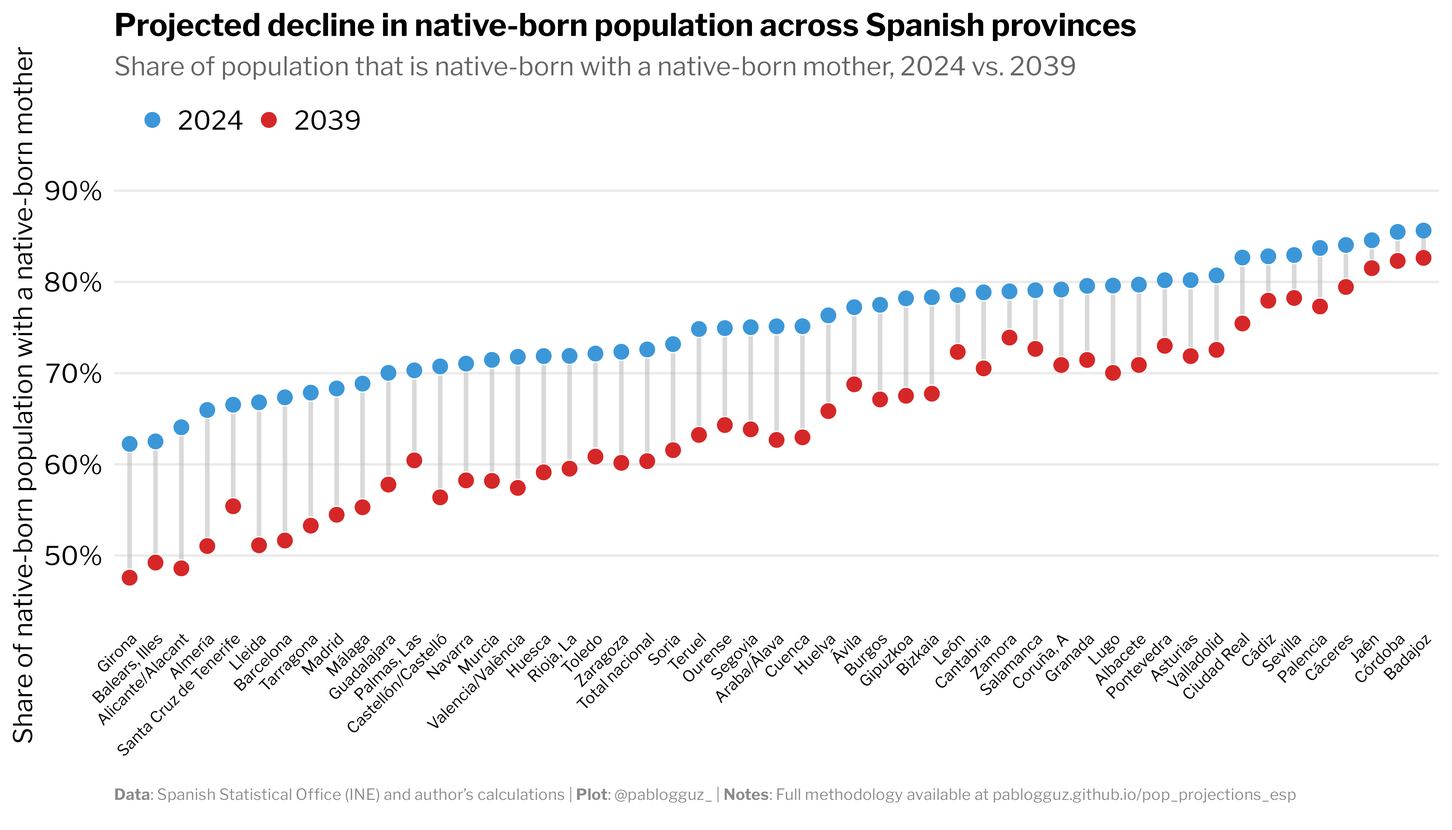
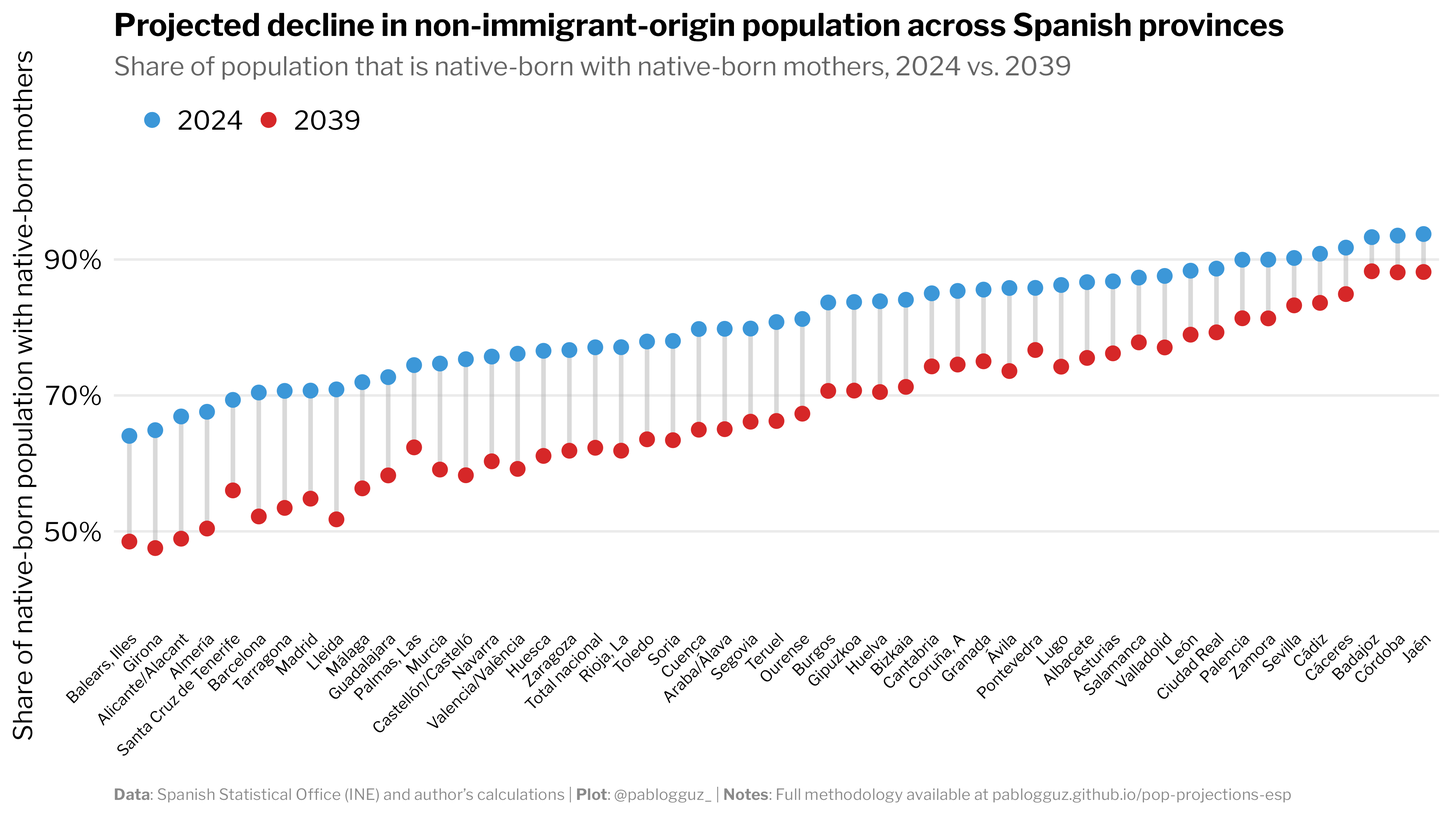
new blog post

diff --git a/content/blog/pop-projections-esp.md b/content/blog/pop-projections-esp.md
@@ -1,0 +1,268 @@
++++
+title = "A demographic projection of Spain's native-born population: quantifying the stock of second-generation immigrants"
+date = 2025-05-04
+draft = false
+
+[taxonomies]
+tags = ["demography", "spain", "immigration"]
+
+[extra]
+lang = "en"
+toc = true
+comment = true
+copy = true
+math = true
+mermaid = false
+outdate_alert = true
+outdate_alert_days = 120
+display_tags = true
+truncate_summary = false
+featured = false
+cover_image = "https://pablogguz.github.io/img/bull.png"
+reading_time = 3
++++
+
+<img src="/img/bull.png" width="500"/>
+<br>
+
+# Introduction
+
+Spain's demographic structure is changing — and fast. In 1998, the stock of foreign-born residents was just 2.9% of the total population. By 2024, this figure had skyrocketed to 18.2%, with nearly one in five residents born outside Spain. Among the prime working-age population (ages 25-54), the share of foreign-born individuals has reached 26.8% nationally, and in provinces hosting major urban and economic centers (like Madrid or Barcelona) it is as high as ~35%. That is more than one in three people! [^1]
+
+This demographic shift extends beyond the first generation of migrants. The children of immigrants — often referred to as "second-generation immigrants" or, more precisely, native-born individuals with foreign-born parents — represent an increasingly important demographic group whose size and characteristics will shape Spain's social and economic landscape in the coming decades.
+
+Unfortunately, there is no readily available data on the number of second-generation immigrants over time in Spain. To bridge this gap, **in this post I present a methodological framework for projecting the share of native-born individuals with foreign-born mothers across Spanish provinces from 2024 to 2039**. To the best of my knowledge, this is the first attempt to estimate and project the size of this population group into the future. The methodology integrates multiple data sources from Spain's National Statistical Office (_Instituto Nacional de Estadística_, hereafter INE) and employs simple, fully-reproducible modeling techniques to produce province-level projections of this increasingly important population segment.
+
+# Data
+
+The projection methodology I propose draws on multiple datasets. All data is publicly available and can be accessed through INE's website:
+
+- [**Population projections (2024-2039)**](https://www.ine.es/dyngs/INEbase/es/operacion.htm?c=Estadistica_C&cid=1254736176953&menu=ultiDatos&idp=1254735572981): This is the backbone of the analysis. The projections (elaborated by INE) provide estimates of Spain's future population broken down by basic demographic characteristics following cohort component methods, which are the international standard for population projections. The projections also include mortality indicators, which will be used to estimate survival probabilities for each age group. All the projections used in the analysis correspond to the "central" (baseline) scenario. One way to think about this baseline scenario is as a "business as usual" projection, which assumes that current demographic trends (birth rates, death rates, and migration patterns) will continue into the future along their present trajectory.
+- [**Birth statistics**](https://www.ine.es/dyngs/INEbase/es/operacion.htm?c=Estadistica_C&cid=1254736177007&menu=ultiDatos&idp=1254735573002): The births microdata allows me to establish the baseline proportion of births to foreign-born mothers in each province and provides historical data for modeling the relationship between foreign-born female population and births to foreign-born mothers.
+- [**Survey on Essential Characteristics of Population and Housing (ECEPOV-2021)**](https://www.ine.es/dyngs/INEbase/en/operacion.htm?c=Estadistica_C&cid=1254736177092&menu=ultiDatos&idp=1254735572981): This household survey, conducted by INE in 2021, complements the 2021 census by providing information not available in administrative registers — in particular, the ECEPOV-2021 will allow me to calculate the existing share of native-born individuals with foreign-born mothers by age and province in 2021. This will provide the baseline structure for the projections.
+
+# Methodology
+
+## The fundamentals 
+
+Let's start with the basics. The classic equation that demographers use to track population changes (in its discrete form) is quite simple:
+
+$$N_{t+1} = N_t + B_t - D_t + I_t - E_t$$
+
+where $N_t$ is the population at time $t$, $B_t$ is births, $D_t$ is deaths, $I_t$ is immigration, and $E_t$ is emigration. This equation captures the fundamental flows that shape population: we start with last year's population, add new births, subtract deaths, and account for people moving in and out.
+
+Let me now write down a slightly more refined version of the equation above that accounts for age structure:
+
+$$N(a+1,t+1) = N(a,t) \times s(a,t) + M(a,t)$$
+
+Here, $N(a,t)$ represents the population of age $a$ at time $t$, while $s(a,t)$ is the survival probability (the chance someone of age $a$ survives to age $a+1$), and $M(a,t)$ captures net migration (immigration minus emigration) of that particular age group. For example, to find next year's 30-year-olds, take this year's 29-year-olds, calculate how many will survive to age 30, and add any net migration of 30-year-olds. 
+
+Now, we're specifically interested in the stock of second-generation immigrants. **For simplicity, I will define this group as native-born individuals with foreign-born mothers (hereafter NBF)**. We can then decompose the total population into three mutually exclusive groups:
+
+$$N(a,t) = NBF(a,t) + NBNM(a,t) + FB(a,t)$$
+
+where:
+- $NBF(a,t)$ is the native-born population with foreign-born mothers
+- $NBNM(a,t)$ is the native-born population with native-born mothers
+- $FB(a,t)$ is the foreign-born population
+
+Each component follows the same demographic principles but differs in how new members enter the population:
+
+| Population group | Change equation | Newborns |
+|-----------------|-----------------|----------|
+| Native-born with foreign-born mothers (NBF) | $NBF(a+1,t+1) = NBF(a,t) \times s(a,t) + M_{NBF}(a,t)$ | $NBF(0,t+1) = B(t) \times s_{infant}(p,t) \times \Phi_{FB}(t) + M_{NBF}(0,t)$ |
+| Native-born with native-born mothers (NBNM) | $NBNM(a+1,t+1) = NBNM(a,t) \times s(a,t) + M_{NBNM}(a,t)$ | $NBNM(0,t+1) = B(t) \times s_{infant}(p,t) \times (1 - \Phi_{FB}(t)) + M_{NBNM}(0,t)$ |
+| Foreign-born population (FB) | $FB(a+1,t+1) = FB(a,t) \times s(a,t) + M_{FB}(a,t)$ | $FB(0,t+1) = M_{FB}(0,t)$  |
+
+In the table above, $\Phi_{FB}(t)$ is the share of births to foreign-born mothers in year $t$, and $M_{NBF}(a,t)$, $M_{NBNM}(a,t)$, and $M_{FB}(a,t)$ are the migration flows for each population group. 
+
+Notice that $s_{infant}(p,t) \neq s(p,0,t)$. The intuition is the following. Demographic projections typically reference population stocks as of January 1st of each year, which means that the age 0 population at time $t+1$ consists of children born during year $t$ who survived to January 1st. Since births occur throughout year $t$, newborns are exposed to mortality risk for only part of the year on average. To account for this partial-year exposure, I use an adjusted infant survival probability that differs from standard age-specific survival rates:
+
+$$s_{infant}(p,t) = 1 - 0.5 \times m(0,p,t)$$
+
+where $m(0,p,t)$ is the mortality rate for age 0 in province $p$ during year $t$. The 0.5 multiplier reflects that, on average, newborns are exposed to mortality risk for approximately half a year before reaching the January 1st reference date.
+
+<!-- In practical terms, I implement this as follows:
+-  I project the NBF population forward using only births and deaths, $NBF_{projected}(a,t)$
+-  I compare the total population projection with INE's official projections (which includes migration): $M(t) = N_{official}(t) - N_{projected}(t)$
+
+The NBF projection is therefore given by:
+
+$$NBF_{adjusted}(a,t) = NBF_{projected}(a,t) \times \frac{N_{official}(a,t)}{N_{projected}(a,t)}$$ -->
+
+## Modeling births to foreign-born mothers
+
+To project future demographic patterns accurately, we need some assumption(s) on how the proportion of births to foreign-born mothers will evolve over time. In particular, this key parameter isn't static but fluctuates in response to changes in the foreign-born female population. One simple way to think about it is using a **linear regression model that links the share of foreign-born women in a province to the percentage of births to foreign-born mothers in that same province**:
+
+$$\Phi_{FB}(p,t) = \alpha_p + \beta \times \frac{\text{Foreign-born females} (p,t)}{\text{Total females} (p,t)} + \varepsilon_{p,t}$$
+
+where:
+- $\Phi_{FB}(p,t)$ is the share of births to foreign-born mothers in province $p$ at time $t$
+- $\alpha_p$ represents province fixed effects
+- $\beta$ is a global elasticity coefficient
+- $\frac{\text{Foreign-born females} (p,t)}{\text{Total females} (p,t)}$ is the proportion of women in province $p$ at time $t$ who were born abroad. 
+
+I estimate the equation above using data from 2009 to 2023, and then apply the estimated coefficients to projected foreign-born population shares through 2039. In the out-of-sample exercise, the number of foreign-born females is calibrated to match the ratio of overall foreign-born population to the total population in each province and year. That is:
+
+$$\frac{\text{Foreign-born females} (p,t)}{\text{Total females} (p,t)} = \frac{\text{Foreign-born population} (p,t)}{\text{Total population} (p,t)} = \gamma(p,t)$$
+
+Ideally, one would use the foreign-born share among the female population of childbearing age (15-49) instead of the overall share of foreign-born women, but unfortunately INE's projections do not provide this breakdown (which makes the out-of-sample prediction exercise unfeasible unless otherwise estimated). For simplicity, I use the overall share as a proxy.
+
+## A basic births-and-deaths projection model
+
+Let's abstract from migration for a second. Under a pure births-and-deaths framework, or each province $p$ and year $t$, the population of age $a$ in year $t+1$ is given by:
+
+$$\hat{N}(p,a,t+1) = \underbrace{\hat{N}(p,a-1,t) \times s(p,a-1,t)}_{\text{Aging and survival of last year's population}}$$
+
+Similarly, for the native-born population with foreign-born mothers and native-born population with native-born mothers:
+
+$$\widehat{NBF}(p,a,t+1) = \underbrace{\widehat{NBF}(p,a-1,t) \times s(p,a-1,t)}_{\text{Aging and survival of last year's NBF population}}$$
+
+$$\widehat{NBNM}(p,a,t+1) = \underbrace{\widehat{NBNM}(p,a-1,t) \times s(p,a-1,t)}_{\text{Aging and survival of last year's NBNM population}}$$
+
+And for newborns:
+
+$$\widehat{NBF}(p,0,t+1) = B(p,t) \times s_{infant}(p,t) \times \widehat{\Phi_{FB}}(p,t)$$
+
+$$\widehat{NBNM}(p,0,t+1) = B(p,t) \times s_{infant}(p,t)  \times (1-\widehat{\Phi_{FB}}(p,t))$$
+
+where $\widehat{\Phi_{FB}}(p,t)$ is estimated using the predicted values from the regression model:
+
+$$\widehat{\Phi_{FB}}(p,t)= \widehat{\alpha_p} + \widehat{\beta} \times \gamma(p,t)$$
+
+## Estimating the initial stock of NBF and NBNM individuals
+
+At the start of the projection, we need the counts of NBF and NBNM individuals by age and province — a level of detail INE does not publish. To establish a coherent baseline, I draw on ECEPOV 2021-microdata and proceed as follows.
+
+First, I classify every repsondent in the ECEPOV-2021 sample into one of three groups: (1) native-born individuals with a foreign-born mother (NBF), (2) native-born individuals with a native-born mother (NBNM), and (3) foreign-born individuals (FB). For all individuals born in Spain with unknown maternal birthplace, I follow a deliberatively conservative approach and classify them as having native-born mothers to avoid overestimating the size of the NBF group. Thus, the results presented here should be interpreted as a *lower bound* on the number of second-generation immigrants.
+
+Now, remember that the goal is to produce population counts as of January 1 each year, but the fieldwork for ECEPOV was conducted in mid-2021. To simplify things, I treat the survey snapshot as if it were taken on January 1, 2022, and then project forward two full years of births and deaths to reach January 1, 2024 using the model described above. This generates preliminary age $\times$ province estimates for each subgroup of interest (NBF and NBNM), reflecting how populations would have evolved absent migration.
+
+Second, because INE only reports the *total* population by age and province (including foreign‑born) — denoted $N^{INE}(p,a,2024)$ — I allocate that total across our three groups in the exact proportions implied by the ECEPOV projection. In practice:
+
+$$NBF(p,a,2024) = \frac{\widehat NBF^{ECEPOV}(p,a,2024)}{\widehat N^{ECEPOV}(p,a,2024)} \times N^{INE}(p,a,2024)$$
+
+and similarly for NBNM. Essentially, this rescaling preserves the relative proportions from the survey estimates.
+
+Since the total number of NBF and NBNM individuals in each age $\times$ province cell at baseline are now defined, we have all the necessary data to project both populations forward. However, it is important to note that at every intermediate at every step of the projection — both in establishing the baseline and in year-to-year changes — the absolute numbers of NBF and NBNM individuals remain misaligned with INE's official native-born population totals. This stems from two factors: (1) small differences between the native-born population shares in the ECEPOV survey and the true native-born shares in the population in 2021, and (2) the fact that the births-and-deaths projections model abstracts from migration flows. To correct for this, in the next step I re-anchor NBF and NBNM sums to INE’s native-born margins in every province and year using a scaling factor that absorbs any aggregate bias in absolute levels. Intuitively, what persists into the projection is the *within-native* age $\times$ province ratio of NBF to NBNM individuals, which becomes the true driver of the second-generation relative shares.
+
+<!-- To calculate the relative population shares of NBF and NBNM individuals at baseline (2024), I simply apply the same algorithm to pre-baseline years (2021-2023) using the ECEPOV-2021 data, adding the historical numbers of births to foreign-born mothers. Let 
+
+$$\widehat{NBF}^{ECEPOV}(p,a,2024)$$  
+
+$$\widehat{NBNM}^{ECEPOV}(p,a,2024)$$ 
+
+be the population of NBF and NBNM individuals in 2024 projected forward from the ECEPOV-2021 data, respectively. Then:
+
+$$\widehat{NBF}(p,a,2024) = \frac{\widehat{NBF}^{ECEPOV}(p,a,2024)}{\widehat{N}^{ECEPOV}(p,a,2024)} \times N(p,a,2024)$$
+
+$$\widehat{NBNM}(p,a,2024) = \frac{\widehat{NBNM}^{ECEPOV}(p,a,2024)}{\widehat{N}^{ECEPOV}(p,a,2024)} \times N(p,a,2024)$$
+
+where $\widehat{N}^{ECEPOV}(p,a,2024)$ is the total population in 2024 projected forward from the ECEPOV-2021 data, and $N(p,a,2024)$ is the total population for each province and age group in 2024 from INE's official projections. Since the total number of NBF and NBNM individuals in each age $\times$ province cell at the start of the projection period are now defined, we have all the necessary data to project both populations forward. -->
+
+## Handling migration 
+
+We have established a basic births-and-deaths projection framework and calibrated the initial stock of NBF and NBNM individuals, which means we have all the necessary data to project both populations forward. But how do we incorporate migration? Rather than attempting to estimate $M_{NBF}(a,t)$ and $M_{NBNM}(a,t)$ directly, **I simply assume that net migration inside the native-born block is allocated in proportion to pre-migration shares within each province.** In other words, if the NBF population is 25% of the native-born population in a province before accounting for migration, I assume it will remain 25% after migration. To formalize this intuition mathematically, consider the following derivation.
+
+Let
+
+* $\hat{N}(p,t)$ – birth-and-death projection for the total population (no migration)
+* $N^{INE}(p,t)$ – INE's official projection for the total population (includes migration)
+* $\widehat{Native}(p,t)$ – birth-and-death projection for native-born population (no migration)
+* $Native^{INE}(p,t)$ – INE's official projection for native-born population (includes migration)
+* $\widehat{NBF}(p,t)$ – birth-and-death projection for the NBF population
+* $NBF(p,t)$ – true, unknown NBF stock we want
+
+Using INE's projections for native and foreign-born populations, I calculate the net migration for the native-born population for each province and year:
+
+$$M_{Native}(p,t) = Native^{INE}(p,t) - \widehat{Native}(p,t)$$
+
+Within the native-born population, I assume that net migration is split in proportion to each subgroup's share:
+
+$$\frac{M_{NBF}(p,t)}{M_{Native}(p,t)} = \frac{\widehat{NBF}(p,t)}{\widehat{Native}(p,t)}$$
+
+This can be rearranged to:
+
+$$M_{NBF}(p,t) = M_{Native}(p,t) \times \frac{\widehat{NBF}(p,t)}{\widehat{Native}(p,t)}$$
+
+Therefore:
+
+$$NBF(p,t) = \widehat{NBF}(p,t) + M_{NBF}(p,t)$$
+$$NBF(p,t) = \widehat{NBF}(p,t) \left(1 + \frac{M_{Native}(p,t)}{\widehat{Native}(p,t)}\right)$$
+$$NBF(p,t) = \widehat{NBF}(p,t) \frac{Native^{INE}(p,t)}{\widehat{Native}(p,t)}$$
+
+Define a province-specific scaling factor for natives:
+
+$$\lambda_{Native}(p,t) = \frac{Native^{INE}(p,t)}{\widehat{Native}(p,t)}$$
+
+To get the final NBF population, we can then simply multiply:
+
+$$\boxed{NBF(p,t) = \widehat{NBF}(p,t) \times \lambda_{Native}(p,t)}$$
+
+By anchoring in this way at each projection step, I eliminate any level distortions arising both from the initial two-year projection of ECEPOV-derived shares to the January 1 2024 baseline and from each subsequent year-to-year update, and ensure the NBF and NBNM totals match the native-born population from INE's official projections. 
+
+<!-- ## Final adjustments
+
+After calculating the natural population dynamics, I apply the migration adjustment by comparing our projected totals with INE's official projections:
+
+$$\lambda(p,t+1) = \frac{N(p,t+1)}{\sum_{a} \hat{N}(p,a,t+1)}$$
+
+$$NBF_{\text{adjusted}}(a,t) = \sum_{a} \widehat{NBF}(p,a,t+1) \times \lambda(p,t+1)$$ -->
+
+<!-- Finally, we calculate the share of native-born with foreign-born mothers in each province:
+
+$$Share_{NBF}(p,t+1) = \frac{NBF_{\text{adjusted}}(a,t)}{N(p,t+1)}$$ -->
+
+# Results 
+
+The results for the whole country are shown in <a href="#fig1">Figure 1</a>. The share of native-born individuals with native-born mothers will decrease from 77.1% in 2024 to just 62.3% by 2039. In just 15 years, the traditionally dominant demographic group will lose around 15 percentage points of its population. Meanwhile, first-generation immigrants will surge from 18.1% to 28.6% of the population, while second-generation immigrants (native-born with foreign-born mothers) will grow from 4.8% to 9.1%.
+
+Put these numbers together, and you get a striking conclusion: **by 2039, nearly 4 in 10 Spanish residents will be either immigrants themselves or the children of immigrants**. This represents one of the most rapid demographic transformations in modern European history.
+
+<figure id="fig1">
+  <figcaption>Figure 1 </figcaption>
+  <img src="/img/pop_composition_total_nacional.png" loading="lazy" style="width: 100%; border: 0px none;"></iframe>
+</figure>
+
+However, the national picture masks a profound regional divergence. As <a href="#fig2">Figure 2</a> reveals, Spain will fracture into two distinct demographic realities.
+
+In Southern provinces like Córdoba, Jaén, and Badajoz — areas with traditionally agrarian economies and fewer economic opportunities — the demographic composition will remain relatively stable. Here, native-born individuals with native-born mothers will still comprise close to 90% of the population by 2039, preserving much of the traditional demographic character. **But along the Mediterranean coast and in economic powerhouses like Madrid and Barcelona, a dramatically different Spain is emerging: in these regions, immigrant and second-generation populations combined will approach or even exceed 50% of the total population by 2039**.
+
+In Spain's most economically vital and populous areas, the native-origin population will be close to becoming a minority in less than 15 years. Absent any major shifts in migration patterns, the municipalities of Madrid and Barcelona will transform into multicultural hubs more reminiscent of London or New York than the Spain of previous generations.[^2]
+
+<!-- However, the patterns will vary significantly across provinces (<a href="#fig2">Figure 2</a>). Echoing Spanish history, it appears the country will be once again divided into two distinct realities, though this time along demographic (rather than ideological) lines. Provinces like Córdoba, Jaén or Badajoz will maintain their traditional demographic composition, with native-born individuals with native-born mothers still comprising around 80% of the population by 2039. Meanwhile, coastal and economic hubs like Madrid, Barcelona, Girona, and the Balearic Islands are headed toward a fundamentally different composition, where immigrant and second-generation populations will approach or exceed 50% of the total population. -->
+
+<figure id="fig2">
+  <figcaption>Figure 2 </figcaption>
+  <img src="/img/native_share_dumbbell.png" loading="lazy" style="width: 100%; border: 0px none;"></iframe>
+</figure>
+
+The scale of this shift becomes even more striking when we consider the age distribution. By 2039, the immigrant-origin population (first and second generation combined) will be substantially overrepresented among Spain's working-age population, while the native-origin population will be disproportionately concentrated among older age groups. 
+
+We can do a simple back-of-the-envelope calculation to illustrate this point. In 2024, foreign-born individuals constituted 23.1% of Spain's working-age population (ages 15-64), despite representing only 18.2% of the total population—an overrepresentation factor of 1.27. Projecting this pattern forward, by 2039, foreign-born individuals will comprise approximately 36.3% of Spain's working-age population (28.6% $\times$ 1.27).
+
+Among the remaining native-born segment (63.7% of the working-age population), second-generation immigrants will represent about 10.3%, translating to 6.6% of the total working-age population. **When combined, these figures imply that, by 2039, approximately 43% of Spain's workforce — over one in four working-age individuals — will be either first or second-generation immigrants.**
+
+## Some external validation 
+
+At this point, you might be wondering how well these projections align with other estimates available and whether they are reasonable at all. 
+
+While it is tricky to validate the long-term projections against other estimates since the latter are simply not available (or at least I am not aware of any of them), we can still cross-check the estimates at the 2024 baseline against historical data. In particular, since 2021, Eurostat has been publishing data on population totals for different segments of the working-age population by migration group (see [here](https://ec.europa.eu/eurostat/databrowser/view/lfsa_pgaccpm__custom_16608096/default/table?lang=en&page=time:2021)). In 2024, Eurostat reports that native-born individuals with at least one foreign-born parent (they don’t break out figures for foreign-born mothers alone) constitute 3.80% of Spain's working-age population. To be extremely tedious, I recalculated my projections using the same definition — either parent foreign-born rather than just mothers — and obtained 3.75% for the same year. This is a difference of only 0.05 percentage points relative to official counts, which is well within the margin of error.
+
+<!-- If we compare the 2024 projection of working-age native-born individuals with foreign-born mothers (2.6%) with Eurostat's figures for working-age native-born individuals with at least one foreign-born parent in that same year (3.80%), the alignment is quite reasonable given the definitional gap (remember that I only track foreign-born mothers rather than either parent being foreign-born -- hence the lower figure in the projections). To be extremely tedious, I checked the numbers in the projection if I had used either parent being foreign-born instead of just the mother, and I get 3.75% for 2024. This is a difference of only 0.05 percentage points relative to official counts, which is well within the margin of error. -->
+
+<!-- That said, let me finally note that no forecasting exercise is perfect, and obsessing over the third decimal place risks giving a false sense of precision. I like to think about this type of analysis as a tool for framing plausible scenarios, not a contest to nail the exact numbers. If results are within a reasonable ballpark and transparently derived, they have done their job — providing the public with a quantitative foundation for discussing deeper questions that these simple mechanical exercises cannot answer on their own. -->
+
+# Conclusion 
+
+What we're witnessing in Spain is nothing short of a demographic revolution. In just over 40 years (1998-2039), Spain will have transformed from a country where foreign-born residents were a tiny minority (2.9%) to one where nearly 40% of residents will be either immigrants themselves or their children.
+
+One cannot help but wonder about the broader implications of such a dramatic shift -- the social reality these projections predict will inevitably reshape Spanish society. How will regional identities evolve when the composition of the population changes so fundamentally? What will happen, for instance, to regional languages like Catalan or Basque, which have historically been maintained through intergenerational transmission among native populations? And what happens when different regions within the same country experience such divergent demographic trajectories?
+
+These are empirical questions that only time will answer, but history suggests that rapid demographic changes often precede significant social and political realignments. Spain, in this sense, may serve as an important case study for other European nations in the coming decades.
+
+------------------------------------------------------------
+
+[^1]: If you are curious, I developed an interactive visualization tool to explore data on the international migrant stock in Spain since 1998 to the present using microdata from administrative municipal registers and censuses. Check it out: [https://pablogguz.shinyapps.io/dataviz_migration_esp/](https://pablogguz.shinyapps.io/dataviz_migration_esp/).
+
+[^2]: With the caveat that, compared to London or New York, origin countries are much more concentrated in Spanish cities. For example, individuals born in Latin America accounted for roughly 48% of the total foreign-born population stock at the national level in 2024.
